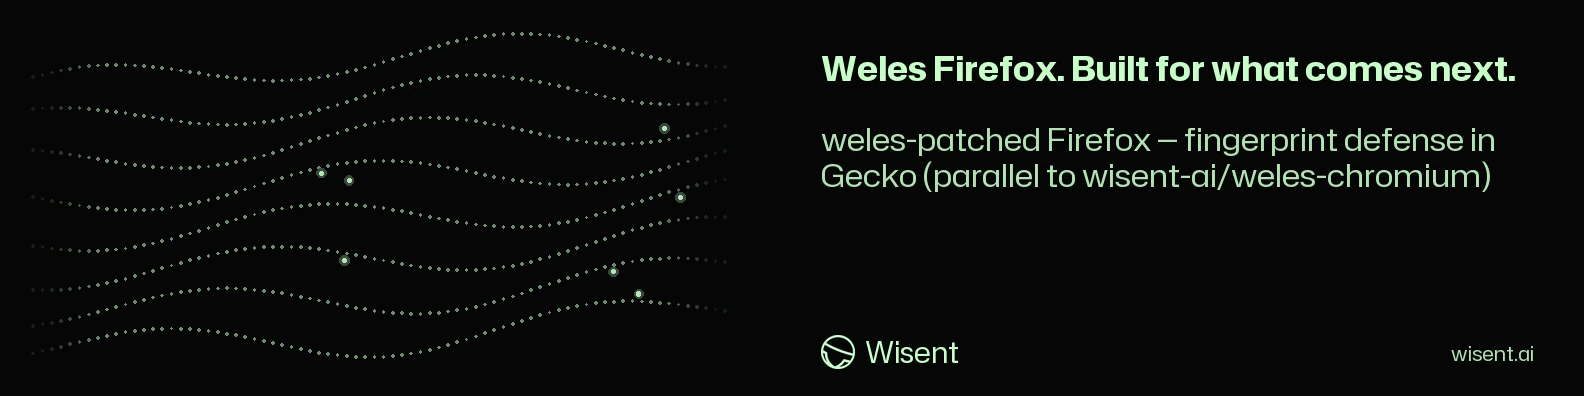
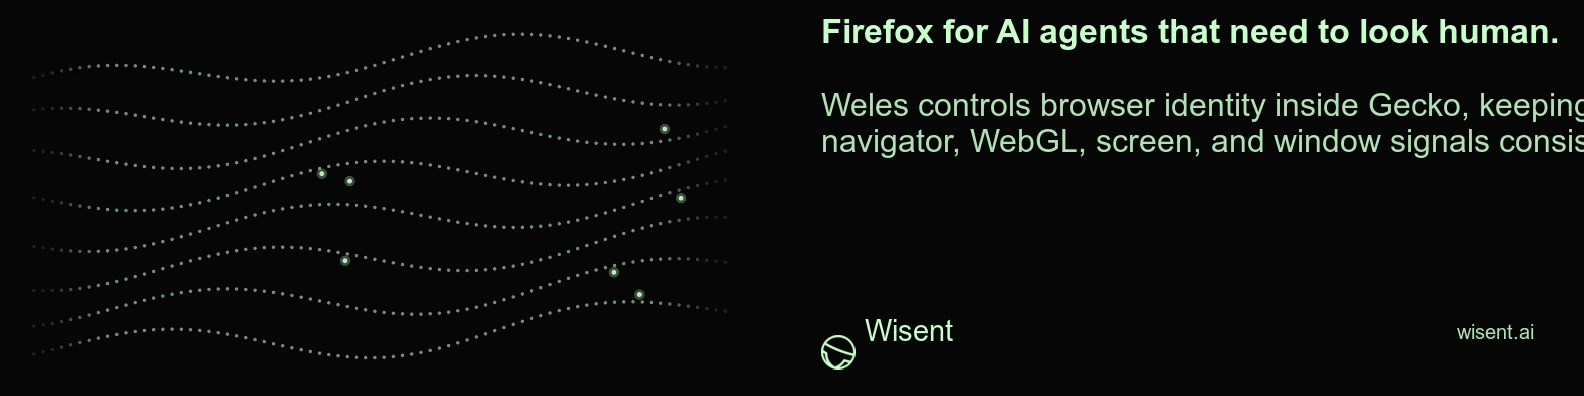
Explain what Weles Firefox does (#3)

diff --git a/README.md b/README.md
@@ -10,8 +10,11 @@
 
 # weles-firefox
 
-The Weles fingerprint-defense patch series for Firefox, as a reviewable patch
-set parallel to
+Weles Firefox is Firefox for AI agents that need to browse without looking
+automated. It puts browser identity controls inside Gecko so Weles can keep
+navigator, WebGL, screen, and window signals consistent.
+
+The repository carries the reviewable patch set parallel to
 [`wisent-ai/weles-chromium`](https://github.com/wisent-ai/weles-chromium).
 
 This repository is the source of truth for the Gecko delta, its declared
